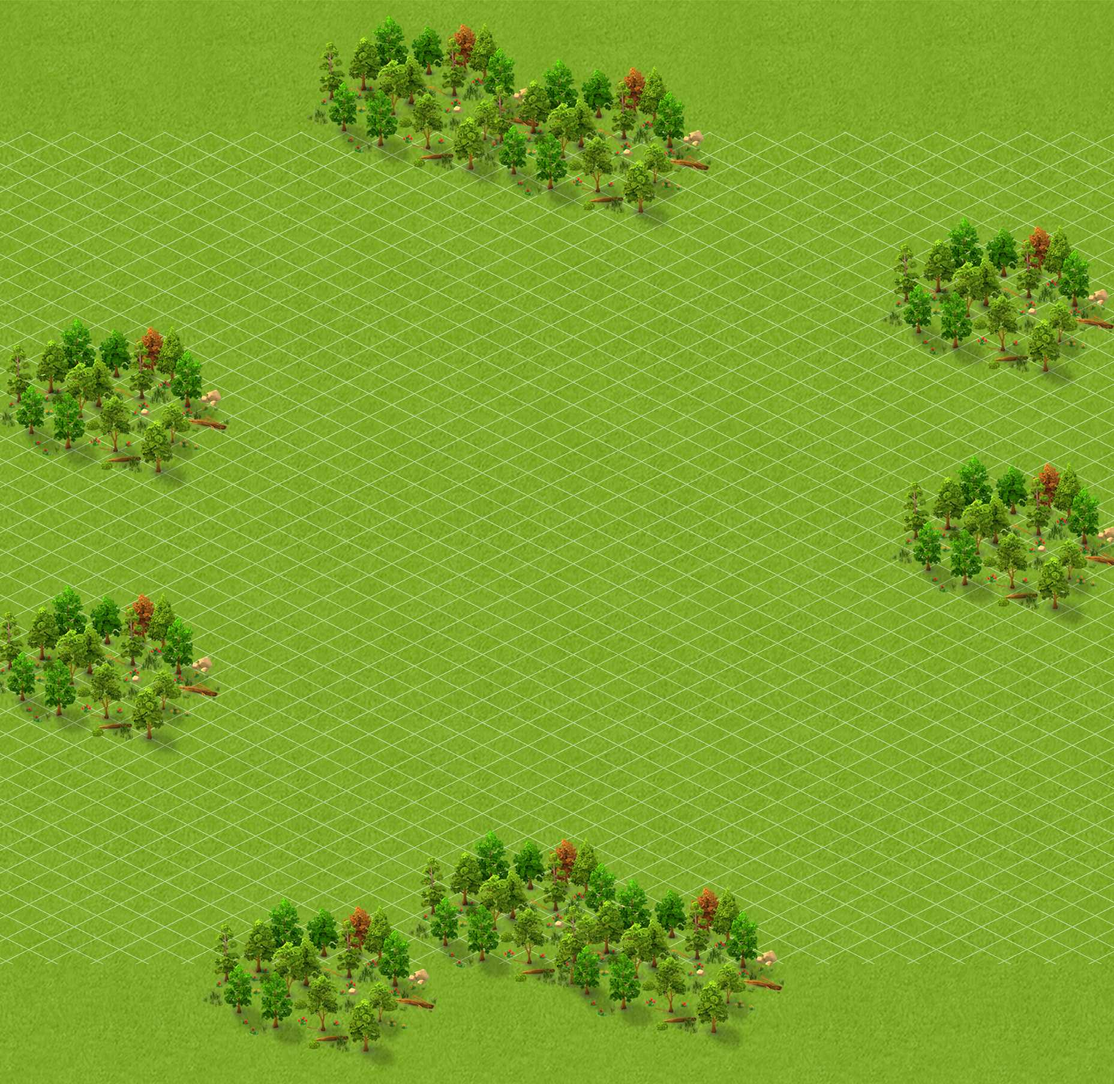
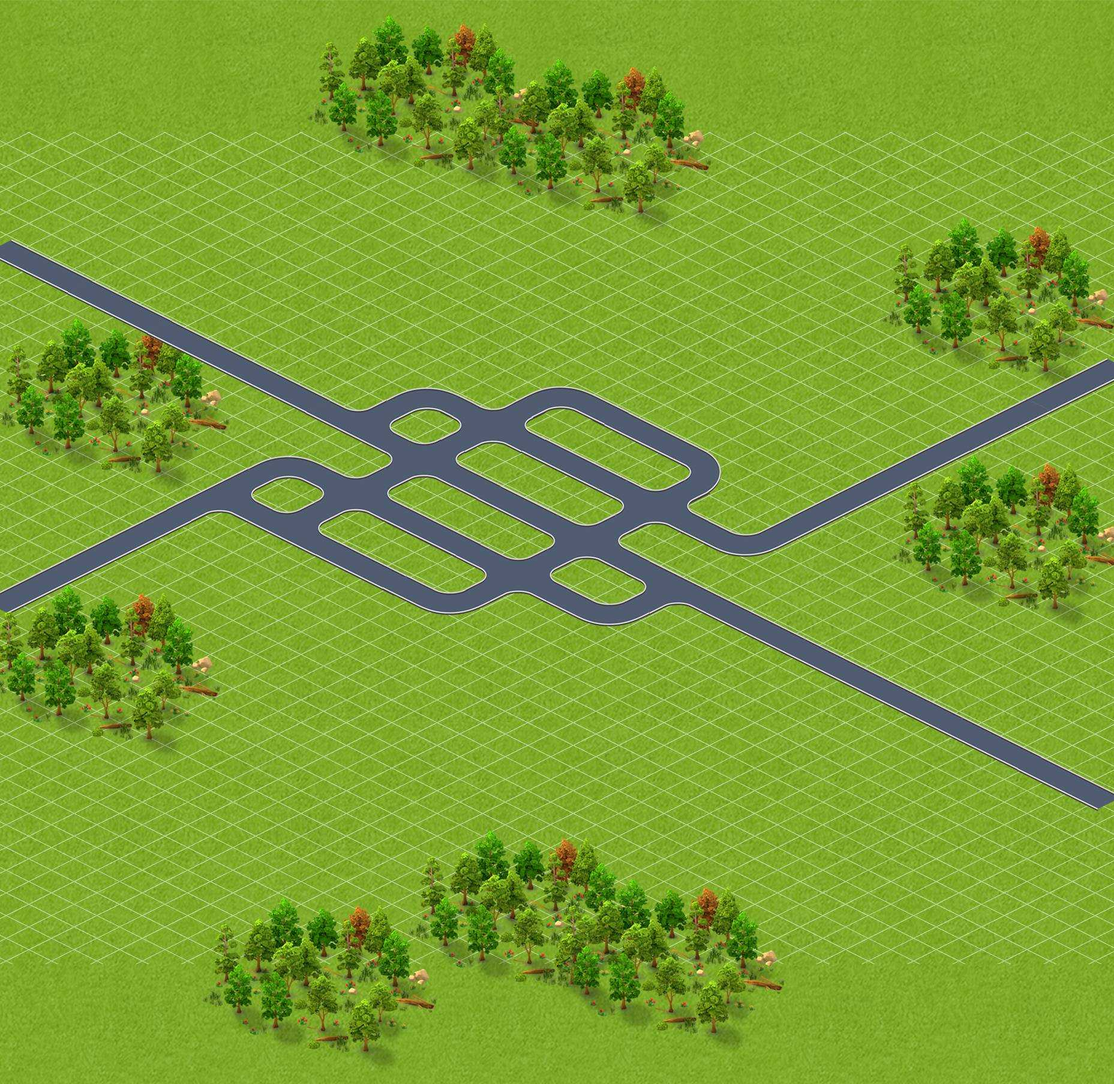
Changed bkg.

diff --git a/src/configs/AreasConfig.ts b/src/configs/AreasConfig.ts
@@ -2,9 +2,58 @@ import { AreaType, BuildingType } from '../models/AreaModel';
 
 export const AREAS: AreaConfig[] = [
     {
-        x: 50,
-        y: -32,
+        x: -453,
+        y: -167,
         type: AreaType.Square,
+        building: BuildingType.House,
+    },
+    {
+        x: -356,
+        y: -120,
+        type: AreaType.Rectangle,
+        building: BuildingType.House,
+    },
+    {
+        x: 196,
+        y: -202,
+        type: AreaType.Rectangle,
+        building: BuildingType.House,
+    },
+    {
+        x: -221,
+        y: -166,
+        type: AreaType.Square,
+        building: BuildingType.House,
+    },
+    {
+        x: 7,
+        y: -166,
+        type: AreaType.Square,
+        building: BuildingType.House,
+    },
+    {
+        x: 82,
+        y: -130,
+        type: AreaType.Square,
+        building: BuildingType.House,
+    },
+    {
+        x: 164,
+        y: -90,
+        type: AreaType.Square,
+        building: BuildingType.House,
+    },
+    {
+        x: 297,
+        y: -25,
+        type: AreaType.Rectangle,
+        building: BuildingType.House,
+    },
+    {
+        x: -107,
+        y: -106,
+        type: AreaType.Square,
+        building: BuildingType.House,
     },
     {
         x: -27,
@@ -13,94 +62,65 @@ export const AREAS: AreaConfig[] = [
         building: BuildingType.House,
     },
     {
-        x: -107,
-        y: -106,
+        x: 50,
+        y: -32,
         type: AreaType.Square,
-    },
-    {
-        x: 7,
-        y: -166,
-        type: AreaType.Square,
-    },
-    {
-        x: 82,
-        y: -130,
-        type: AreaType.Square,
-    },
-    {
-        x: 164,
-        y: -90,
-        type: AreaType.Square,
-    },
-    {
-        x: -67,
-        y: 25,
-        type: AreaType.Square,
-    },
-    {
-        x: -144,
-        y: -13,
-        type: AreaType.Square,
+        building: BuildingType.House,
     },
     {
         x: -221,
         y: -51,
         type: AreaType.Square,
-    },
-
-    {
-        x: -453,
-        y: -167,
-        type: AreaType.Square,
+        building: BuildingType.House,
     },
     {
-        x: -221,
-        y: -166,
+        x: -144,
+        y: -13,
         type: AreaType.Square,
+        building: BuildingType.House,
+    },
+    {
+        x: -67,
+        y: 25,
+        type: AreaType.Square,
+        building: BuildingType.House,
+    },
+    {
+        x: 182,
+        y: 35,
+        type: AreaType.Rectangle,
+        building: BuildingType.House,
     },
     {
         x: 273,
         y: 80,
         type: AreaType.Square,
+        building: BuildingType.House,
+    },
+
+    {
+        x: 364,
+        y: 127,
+        type: AreaType.Rectangle,
+        building: BuildingType.House,
     },
     {
-      x: 70,
-      y: 90,
-      type: AreaType.Rectangle,
-  },
-  {
-      x: 182,
-      y: 35,
-      type: AreaType.Rectangle,
-  },
-  {
-      x: 364,
-      y: 127,
-      type: AreaType.Rectangle,
-  },
-  {
-      x: 297,
-      y: -25,
-      type: AreaType.Rectangle,
-  },
-  {
-      x: 196,
-      y: -202,
-      type: AreaType.Rectangle,
-  },
-  {
-      x: -356,
-      y: -120,
-      type: AreaType.Rectangle,
-  },
-  {
-      x: -315,
-      y: 14,
-      type: AreaType.Rectangle,
-  },
-  {
-      x: -196,
-      y: 75,
-      type: AreaType.Rectangle,
-  },
+        x: 70,
+        y: 90,
+        type: AreaType.Rectangle,
+        building: BuildingType.House,
+    },
+
+    {
+        x: -315,
+        y: 14,
+        type: AreaType.Rectangle,
+        building: BuildingType.House,
+    },
+    {
+        x: -196,
+        y: 75,
+        type: AreaType.Rectangle,
+        building: BuildingType.House,
+    },
 ];

diff --git a/src/assets.ts b/src/assets.ts
@@ -22,7 +22,6 @@ export const assets = {
         'game/progress_bar.png': require('../assets/images/game/progress_bar.png').default,
         'game/progress_bkg.png': require('../assets/images/game/progress_bkg.png').default,
         'game/rectangle.png': require('../assets/images/game/rectangle.png').default,
-        'game/road.png': require('../assets/images/game/road.png').default,
         'game/square.png': require('../assets/images/game/square.png').default,
         'game/winter_fountain.png': require('../assets/images/game/winter_fountain.png').default,
     },
@@ -53,7 +52,6 @@ export const Images = {
     'game/progress_bar': 'game/progress_bar.png',
     'game/progress_bkg': 'game/progress_bkg.png',
     'game/rectangle': 'game/rectangle.png',
-    'game/road': 'game/road.png',
     'game/square': 'game/square.png',
     'game/winter_fountain': 'game/winter_fountain.png',
 };

diff --git a/src/views/BoardView.ts b/src/views/BoardView.ts
@@ -41,7 +41,6 @@ export class BoardView extends Container {
 
     private build(): void {
         this.buildBkg();
-        this.buildRoad();
     }
 
     private onAreasUpdate(areas: AreaModel[]): void {
@@ -60,13 +59,9 @@ export class BoardView extends Container {
         this.bkg?.destroy();
 
         this.bkg = makeSprite({ texture: Images['game/bkg'] });
+        this.bkg.y = 28
+        // this.bkg.x = 25
         this.addChild(this.bkg);
     }
 
-    private buildRoad(): void {
-        this.road?.destroy();
-
-        this.road = makeSprite({ texture: Images['game/road'] });
-        this.addChild(this.road);
-    }
 }
